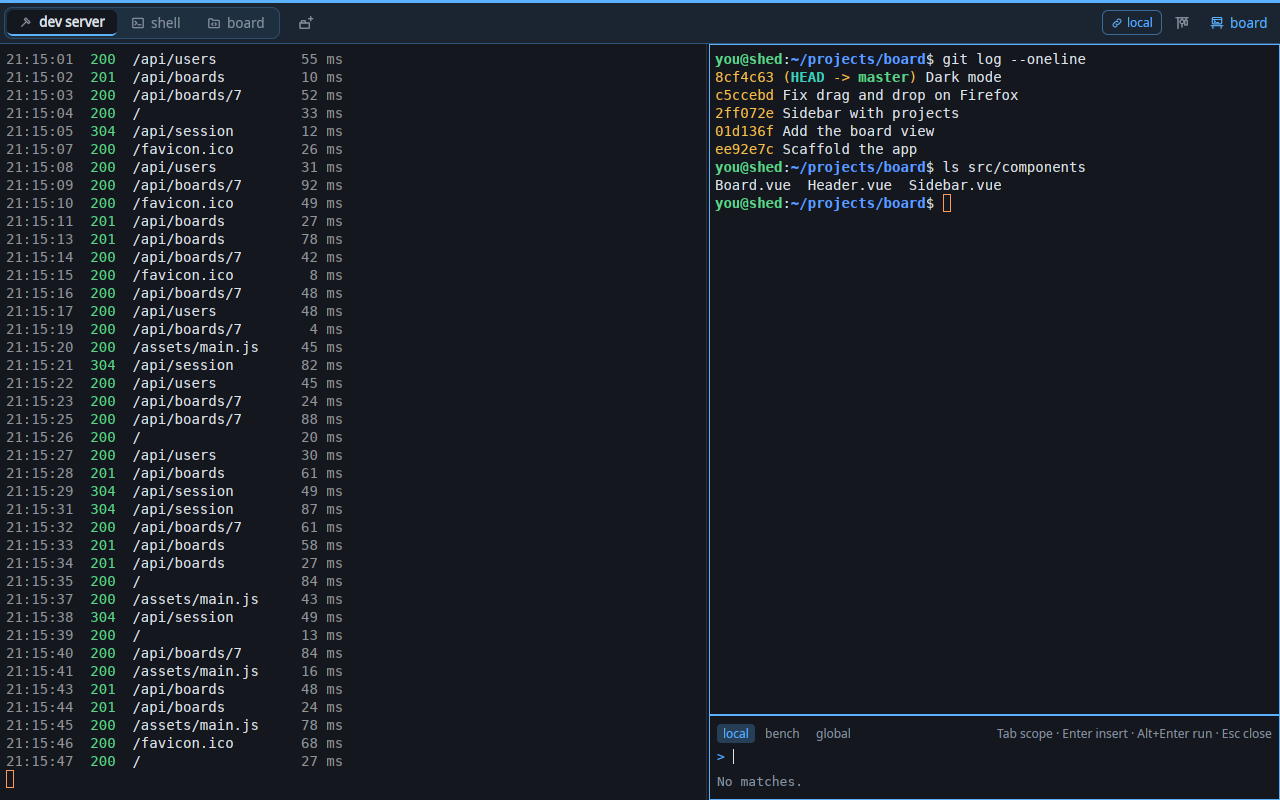
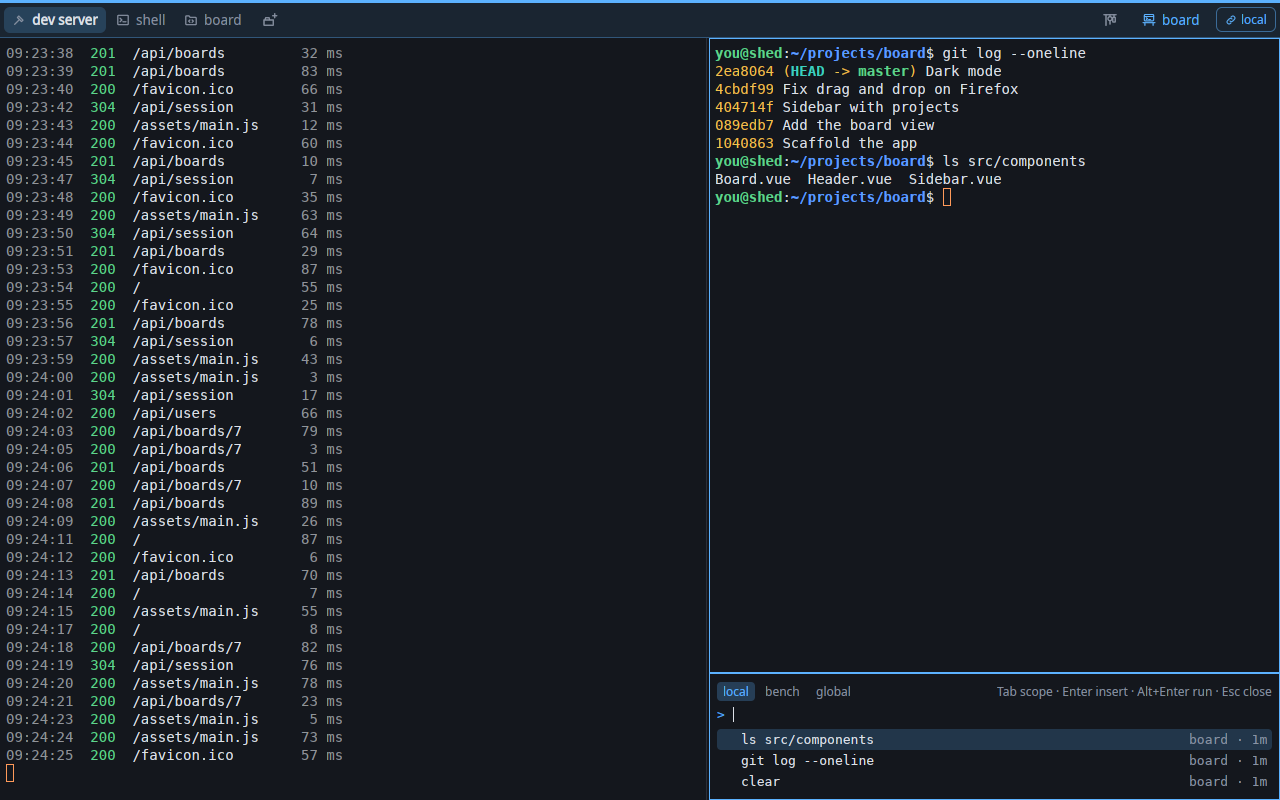
A calmer, more compact tab bar, its controls in a column beside wrapped tabs
- Tab groups are set apart by space alone, without boxes; the new-tab
  button sits close after the last group
- The shown tab has a soft fill of the bench's colour and stronger text,
  no underline; hover is a faint fill
- Tags are small coloured words after the title, no chips (a tag that
  tints the whole tab still does)
- Rows are more compact (26 px tabs, 2 px apart)
- The controls on the right stay one row when everything fits; when the
  tabs wrap they form a column (usage limits on top, Run Startup, Setup,
  the bench's name and links below, wrapping), centred against the tabs
- User guide and bench window screenshots updated

diff --git a/crates/shed-app/src/bench_window.rs b/crates/shed-app/src/bench_window.rs
@@ -30,7 +30,12 @@ use crate::terminal_view::TerminalView;
 use crate::theme::{UiColors, hsla, hsla_alpha};
 use crate::window_place::{PlaceTracker, Placed};
 
-const TAB_BAR_HEIGHT: f32 = 40.0;
+/// A tab's height on the tab bar, before `[window] tab_bar_scale`.
+const TAB_HEIGHT: f32 = 26.0;
+/// The room on either side of a tab's icon and title.
+const TAB_PAD_X: f32 = 8.0;
+/// The space between groups of tabs (tabs in a group are 2 apart).
+const GROUP_GAP: f32 = 18.0;
 
 /// What the inline text field is editing.
 #[derive(Clone, Copy, PartialEq)]
@@ -124,28 +129,27 @@ pub fn known_tags(cx: &gpui::App, state: &crate::state::AppState) -> Vec<(String
     found.into_iter().map(|(label, (color, n))| (label.clone(), if config.tag_colors.contains_key(&label) { config.tag_color_of(&label) } else { color }, n)).collect()
 }
 
-/// About how wide the tab bar's two parts would be on one row, at scale
-/// `s`: the tabs (by their titles, tags and zoom, in their groups), the
-/// controls, and the widest control (the narrowest the controls can get).
-/// Text is not measured before it is laid out, so this goes by characters.
-fn bar_widths(bench: &BarState, s: f32, limits: bool, lifecycle: bool, setup: bool) -> (f32, f32, f32) {
+/// About how wide the tab bar's parts would be, at scale `s`: the tabs on
+/// one row (by their titles, tags and zoom, in their groups); the usage
+/// limits; and the other controls (Run Startup, Setup, the bench's name, its
+/// links), each. Text is not measured before it is laid out, so this goes by
+/// characters.
+fn bar_widths(bench: &BarState, s: f32, limits: bool, lifecycle: bool, setup: bool) -> (f32, f32, Vec<f32>) {
     let ch = 7.4 * s;
     let tab = |t: &BarTab| {
-        let tags: f32 = t.tags.iter().map(|g| g.label.chars().count() as f32 * 6.5 * s + 16.0 * s).sum();
-        24.0 * s + 22.0 * s + t.title.chars().count() as f32 * ch + tags + if t.zoom != 0.0 { 44.0 * s } else { 0.0 }
+        let tags: f32 = t.tags.iter().map(|g| g.label.chars().count() as f32 * 6.2 * s + 6.0 * s).sum();
+        2.0 * TAB_PAD_X * s + 20.0 * s + t.title.chars().count() as f32 * ch + tags + if t.zoom != 0.0 { 44.0 * s } else { 0.0 }
     };
+    // The bar's edges, the new-tab button.
     let mut tabs = 8.0 * s + 34.0 * s;
     for (i, t) in bench.tabs.iter().enumerate() {
-        // A new group: its tray's edge, and the gap between trays.
-        if i == 0 || t.divider != TabDivider::None {
-            tabs += 6.0 * s + if i == 0 { 0.0 } else { 10.0 * s };
+        if i > 0 && t.divider != TabDivider::None {
+            tabs += GROUP_GAP * s;
         }
         tabs += tab(t) + 2.0 * s;
     }
+    let limits = if limits { 176.0 * s } else { 0.0 };
     let mut items = Vec::new();
-    if limits {
-        items.push(176.0 * s);
-    }
     if lifecycle {
         items.push(32.0 * s);
     }
@@ -154,9 +158,7 @@ fn bar_widths(bench: &BarState, s: f32, limits: bool, lifecycle: bool, setup: bo
     }
     items.push(bench.name.chars().count() as f32 * 8.0 * s + 54.0 * s);
     items.extend(bench.links.iter().map(|l| l.name.chars().count().min(22) as f32 * 7.0 * s + 40.0 * s));
-    let controls = items.iter().sum::<f32>() + 4.0 * s * items.len() as f32 + 8.0 * s;
-    let widest = items.iter().copied().fold(0.0, f32::max);
-    (tabs, controls, widest)
+    (tabs, limits, items)
 }
 
 fn item(label: impl Into<SharedString>, action: impl Fn(&mut BenchWindow, &mut Window, &mut Context<BenchWindow>) + 'static) -> MenuEntry<BenchWindow> {
@@ -1147,29 +1149,15 @@ impl TabBar {
         let ui = &b.ui;
         let accent = b.accent;
         let tab_count = b.tabs.len();
-        let row = px(TAB_BAR_HEIGHT * s);
-        // Tabs wrap onto more rows when they do not fit; the buttons stay on
-        // the right of the first.
+        // Tabs wrap onto more rows when they do not fit.
         let pad = px(4.0 * s);
-        let tab_h = row - pad * 2.0;
-        let mut tabs = div().flex_1().min_w_0().flex().flex_wrap().gap_x(px(10.0 * s)).gap_y(pad).p(pad);
+        let tab_h = px(TAB_HEIGHT * s);
+        let row_gap = px(2.0 * s);
+        let mut tabs = div().flex_1().min_w_0().flex().flex_wrap().gap_x(px(GROUP_GAP * s)).gap_y(row_gap).p(pad);
         // Tabs in groups, split where a tab has a divider before it: a group
         // goes onto the next row whole, and wraps inside only when it alone
-        // is wider than the bar. Each group sits on a tray of its own.
-        let group = move || {
-            div()
-                .flex()
-                .flex_wrap()
-                .min_w_0()
-                .gap(px(2.0 * s))
-                // On a tray, one group or several: the bar looks the same
-                // with dividers or without.
-                .p(px(2.0 * s))
-                .rounded_lg()
-                .bg(hsla_alpha(accent, 0.07))
-                .border_1()
-                .border_color(hsla_alpha(accent, 0.22))
-        };
+        // is wider than the bar. Groups are set apart by space alone.
+        let group = move || div().flex().flex_wrap().min_w_0().gap(px(2.0 * s));
         let mut current = group();
         let base = b.base;
 
@@ -1190,9 +1178,9 @@ impl TabBar {
                 .group("tab")
                 .flex()
                 .items_center()
-                .gap_1p5()
-                .h(tab_h - px(4.0 * s) - px(2.0))
-                .px_3()
+                .gap(px(6.0 * s))
+                .h(tab_h)
+                .px(px(TAB_PAD_X * s))
                 .max_w(px(260.0 * s))
                 .rounded_md()
                 .cursor_pointer()
@@ -1241,16 +1229,13 @@ impl TabBar {
             {
                 el = if after { el.border_r_2() } else { el.border_l_2() }.border_color(hsla(accent));
             }
+            // The shown tab: a soft fill of the bench's colour, stronger text.
             el = match (active, tint) {
                 (true, Some(t)) => el.bg(hsla_alpha(t, 0.35)).text_color(hsla(ui.text)).font_weight(FontWeight::MEDIUM),
                 (false, Some(t)) => el.bg(hsla_alpha(t, 0.16)).hover(|s| s.bg(hsla_alpha(t, 0.26))),
-                (true, None) => el.bg(hsla(ui.tab_active)).text_color(hsla(ui.text)).font_weight(FontWeight::MEDIUM),
-                (false, None) => el.hover(|s| s.bg(hsla_alpha(ui.text, 0.06))),
+                (true, None) => el.bg(hsla_alpha(accent, 0.2)).text_color(hsla(ui.text)).font_weight(FontWeight::MEDIUM),
+                (false, None) => el.hover(|s| s.bg(hsla_alpha(ui.text, 0.06)).text_color(hsla(ui.text))),
             };
-            if active {
-                // The shown tab: lifted, with the bench's colour under it.
-                el = el.border_b_2().border_color(hsla(accent));
-            }
             // One icon, as in Shed: what the tab is, or that it waits or works.
             let (glyph, tint) = tab.icon;
             el = el.child(svg().path(icon(glyph)).size(px(14.0 * s)).flex_none().text_color(hsla(tint)));
@@ -1282,14 +1267,13 @@ impl TabBar {
                         })),
                 );
             }
+            // Tags as small text in their colours.
             for tag in &tab.tags {
                 el = el.child(
                     div()
                         .flex_none()
-                        .px_1()
-                        .rounded_sm()
                         .text_size(px(11.0 * s))
-                        .bg(hsla_alpha(tag.color, 0.25))
+                        .font_weight(FontWeight::MEDIUM)
                         .text_color(hsla(ui.ink(tag.color)))
                         .child(tag.label.clone()),
                 );
@@ -1300,10 +1284,11 @@ impl TabBar {
             current = current.child(el);
         }
 
-        // The new-tab button stands after the trays, in no group.
+        // The new-tab button stands after the groups, in none, close to the last.
         let tabs = tabs.child(current).child(
             div()
                 .id("new-tab")
+                .ml(px((4.0 - GROUP_GAP) * s))
                 .h(tab_h)
                 .rounded_md()
                 .flex()
@@ -1354,11 +1339,13 @@ impl TabBar {
                 .flex()
                 .items_center()
                 .px_2()
+                .rounded_md()
                 .cursor_pointer()
                 .hover(|st| st.bg(hsla(ui.tab_hover)))
                 .tooltip(menu::tooltip(tip))
                 .child(svg().path(icon(glyph)).size(px(16.0 * s)).text_color(hsla(ui.ink(accent))))
         };
+        let lifecycle_shown = !b.closing && (has_startup && !b.started || b.started && has_teardown);
         let lifecycle = if b.closing {
             None
         } else if has_startup && !b.started {
@@ -1376,49 +1363,59 @@ impl TabBar {
         let limits = b.limits.as_ref().and_then(|(l, palette)| crate::ai_view::limit_bars(*l, ui, palette, s));
         // Setup is for terminal tabs: startup, teardown and aliases.
         let terminal = b.terminal;
-        // The controls on the right: one row when the tabs leave room for it;
-        // when the tabs need more rows, a narrower block of rows of their own
-        // (right-aligned, each as tall as a tab row), so the tabs get the width.
-        let (tabs_w, controls_w, widest) = bar_widths(b, s, limits.is_some(), has_startup && !b.started || b.started && has_teardown, terminal);
-        let room = f32::from(width);
-        let stacked = tabs_w + controls_w > room;
-        let controls_max = if stacked { widest.max(room * 0.28).min(controls_w) } else { controls_w.max(room) };
         let setup_open = m.setup_open;
-        let controls = div()
-            .flex()
-            .flex_none()
-            .flex_wrap()
-            .justify_end()
-            .items_center()
-            .gap_x(px(4.0 * s))
-            .gap_y(pad)
-            .p(pad)
-            .max_w(px(controls_max + f32::from(pad) * 2.0 + 2.0))
-            .children(limits.map(|l| l.h(tab_h).px_1()))
-            .children(lifecycle.map(|l| l.h(tab_h)))
-        .when(terminal || setup_open, |d| d.child(
+        let setup = (terminal || setup_open).then(|| {
             div()
                 .id("setup-button")
-                .h(tab_h)
                 .flex()
                 .items_center()
                 .px_2()
+                .rounded_md()
                 .cursor_pointer()
-                .when(setup_open, |d| d.bg(hsla(ui.tab_active)))
+                .when(setup_open, |d| d.bg(hsla_alpha(accent, 0.2)))
                 .hover(|s| s.bg(hsla(ui.tab_hover)))
                 .tooltip(menu::tooltip(if cfg!(target_os = "macos") { "Setup: startup, teardown, aliases (Cmd+Shift+S)" } else { "Setup: startup, teardown, aliases (Ctrl+Shift+S)" }))
                 .on_click(self.on(|this, _: &ClickEvent, window, cx| this.toggle_setup(window, cx)))
-                .child(svg().path(icon("rack")).size(px(16.0 * s)).text_color(hsla(if setup_open { accent } else { ui.text_dim }))),
-        ))
-            .child(div().h(tab_h).flex().items_center().child(self.render_bench_label(m)))
-            // Links last: stacked, they take the rows below.
-            .children(self.render_links(b).into_iter().map(|l| div().h(tab_h).flex().items_center().child(l)));
+                .child(svg().path(icon("rack")).size(px(16.0 * s)).text_color(hsla(if setup_open { ui.ink(accent) } else { ui.text_dim })))
+        });
+        // Besides the limits: Run Startup, Setup, the bench's name, its links.
+        let others: Vec<AnyElement> = lifecycle
+            .map(|l| l.h(tab_h).into_any_element())
+            .into_iter()
+            .chain(setup.map(|d| d.h(tab_h).into_any_element()))
+            .chain(std::iter::once(div().h(tab_h).flex().items_center().child(self.render_bench_label(m)).into_any_element()))
+            .chain(self.render_links(b).into_iter().map(|l| div().h(tab_h).flex().items_center().child(l).into_any_element()))
+            .collect();
+        // The controls on the right: one row beside the tabs when all fits on
+        // one; when the tabs need more rows, a column beside them (the limits
+        // on top, the rest under them, wrapping), so the tabs get the width.
+        // Either way centred against the tabs.
+        let (tabs_w, limits_w, items) = bar_widths(b, s, limits.is_some(), lifecycle_shown, terminal || setup_open);
+        let gap = 4.0 * s;
+        let items_w = items.iter().sum::<f32>() + gap * items.len().saturating_sub(1) as f32;
+        let one_row = limits_w + if limits_w > 0.0 { gap } else { 0.0 } + items_w + 2.0 * f32::from(pad);
+        let room = f32::from(width);
+        let controls = if tabs_w + one_row <= room {
+            div().flex().flex_none().items_center().gap_x(px(gap)).p(pad).children(limits).children(others)
+        } else {
+            let widest = items.iter().copied().fold(limits_w, f32::max);
+            let column = widest.max(items_w.min(room * 0.25)).ceil() + 2.0;
+            div()
+                .flex()
+                .flex_none()
+                .flex_col()
+                .items_end()
+                .gap_y(row_gap)
+                .p(pad)
+                .max_w(px(column) + pad * 2.0)
+                .children(limits)
+                .child(div().flex().flex_wrap().justify_end().items_center().gap_x(px(gap)).gap_y(row_gap).children(others))
+        };
         div()
             .id("tab-bar")
             .flex()
             .flex_none()
-            .items_start()
-            .min_h(row)
+            .items_center()
             // Set apart from the panes: a ground of the bench's colour, a line under it.
             .bg(hsla_alpha(accent, 0.09))
             .border_b_1()
@@ -1468,7 +1465,9 @@ impl TabBar {
             .flex()
             .items_center()
             .gap_1p5()
+            .h_full()
             .px_3()
+            .rounded_md()
             .cursor_pointer()
             .text_color(hsla(b.ui.ink(accent)))
             .hover(|s| s.bg(hsla(b.ui.tab_hover)))

diff --git a/docs/user-guide.md b/docs/user-guide.md
@@ -161,7 +161,8 @@ as it opens and closes; benches never moved come after the others, by name.
 
 The coloured stripe and the tab bar carry the bench's colour; so does the border of
 the focused pane, when a tab is split. The tab bar is set apart by a faint ground
-of that colour and a line under it, the shown tab lighter and in bolder type; how
+of that colour and a line under it; the shown tab has a soft fill of the colour
+and stronger type, and a tab's tags follow its title as small coloured words. How
 large it is drawn is a setting (**Tab bar size** in Settings).
 
 - **Tabs**: click to switch, double-click to rename, drag to reorder: dropped on
@@ -177,10 +178,12 @@ large it is drawn is a setting (**Tab bar size** in Settings).
   not fit on one row they wrap onto more, the bar growing to hold them. The
   controls on the right (usage limits, Run Startup, Setup, the bench's name and
   its links) stay on one row when there is room; when the tabs need more rows,
-  they stack into a narrower block of rows of their own, each level with a row
-  of tabs, so the tabs get the width.
+  they form a column beside them, the usage limits on top and the rest below
+  (the links wrapping if need be), so the tabs get the width. Either way they
+  are centred against the tabs.
 - **Groups**: right-click a tab, **Divider Before**: **Space** starts a group
-  there (each group sits on a tray of its own, a gap between, and a bench without dividers is one group on one tray, the new-tab button after the trays; a group goes onto the next row whole, and wraps inside
+  there (groups are set apart by a wider gap, the new-tab button after the
+  last; a group goes onto the next row whole, and wraps inside
   only when it alone is wider than the bar), **New Row** starts its group on a row
   of its own, **None** joins it to the tabs before. Dividers are saved with the
   bench.
